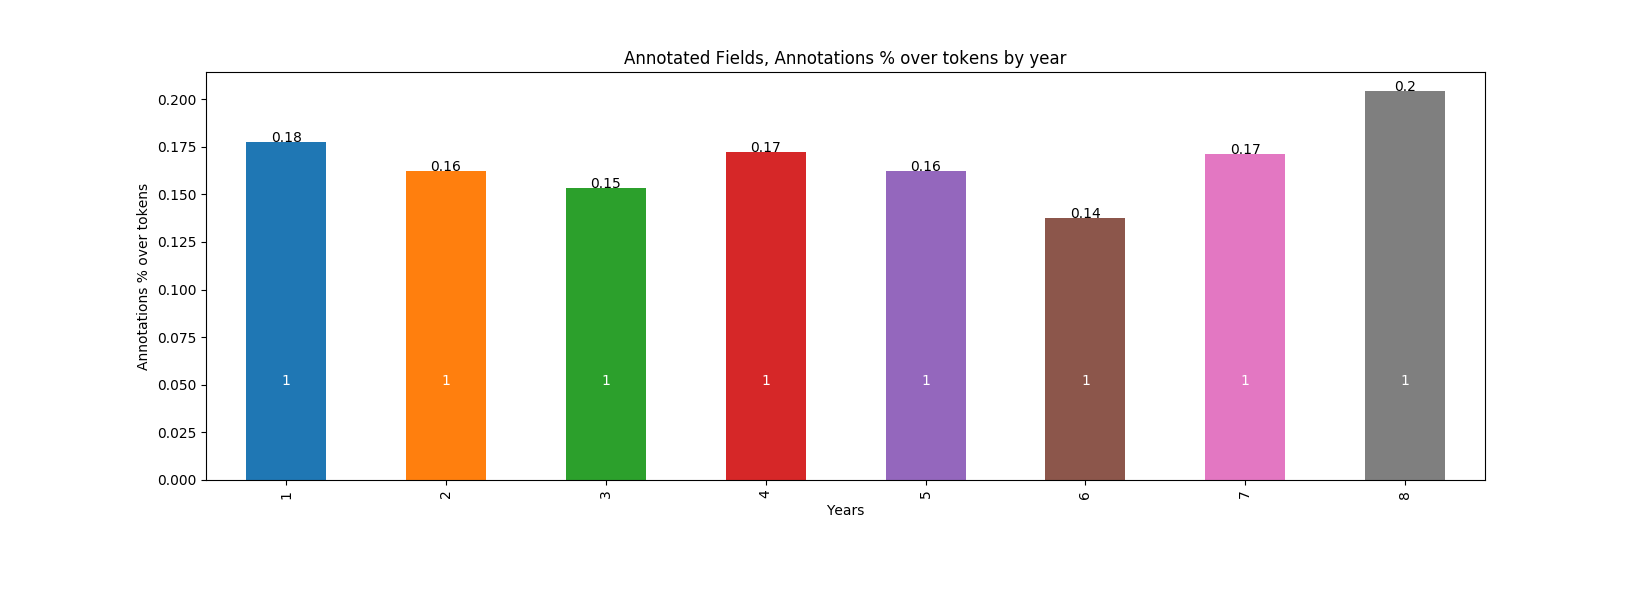
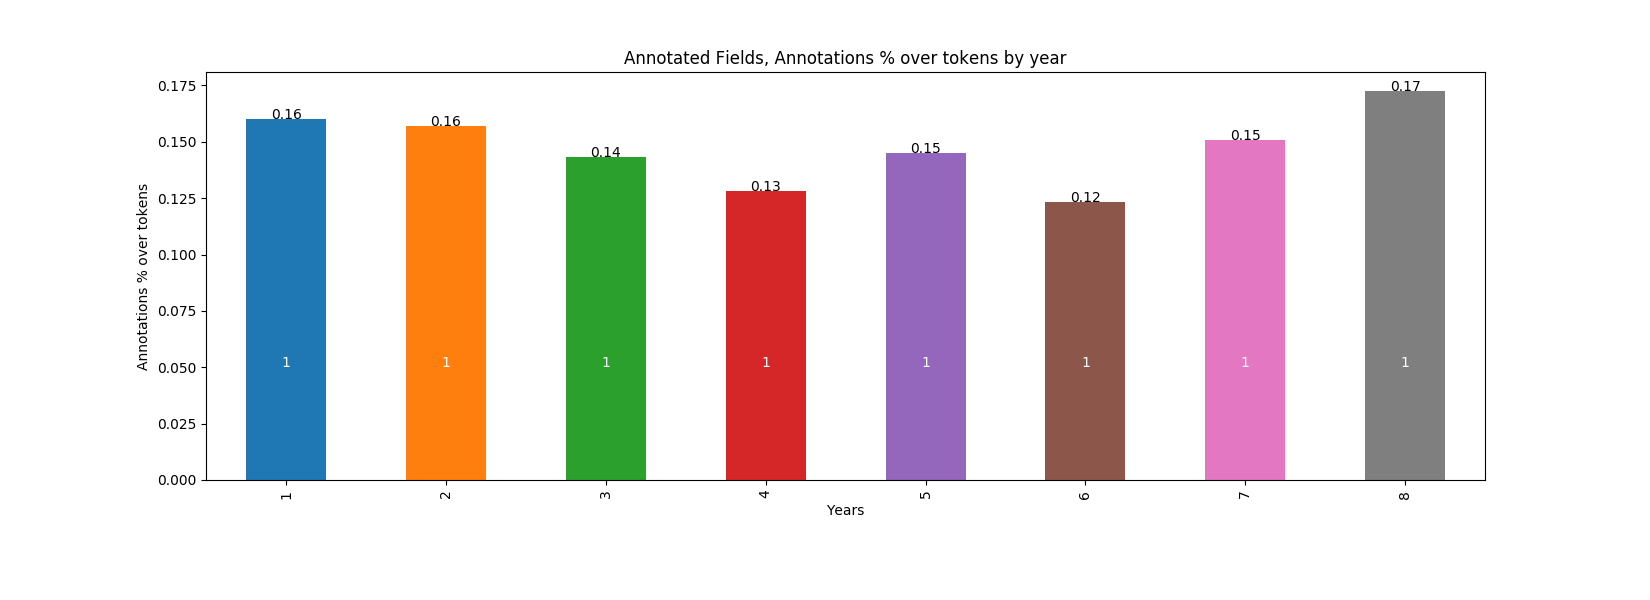
development comparison efpia TRELLO#36

diff --git a/plot_multiefpia_comparison.py b/plot_multiefpia_comparison.py
@@ -2,7 +2,7 @@
 Created on Jan 16, 2019
 
 To run the file 
-python plot.py -f1 servier/total_annotation_measurement.dat -f2 servier/documents_annotation_measurement.dat -outputDir servier
+python plot_multiefpia_comparison.py -f1 bayer/total_annotation_measurement.dat,sanofi/total_annotation_measurement.dat,servier/total_annotation_measurement.dat -f2 bayer/documents_annotation_measurement.dat,sanofi/documents_annotation_measurement.dat,servier/documents_annotation_measurement.dat -outputDir multoefpia
 
 @author: jcorvi
 '''
@@ -21,8 +21,8 @@ parser.add_argument('-outputDir', help='Output Dir, could be the EFPIA partner n
 args=parser.parse_args()
 parameters={}
 if __name__ == '__main__':
-    import plot_multiefpia_comparation
-    parameters = plot_multiefpia_comparation.ReadParameters(args)
+    import plot_multiefpia_comparison
+    parameters = plot_multiefpia_comparison.ReadParameters(args)
     
     total_annotation_measurement = parameters['total_annotation_measurement'].split(",")
     documents_annotation_measurement = parameters['documents_annotation_measurement'].split(",")
@@ -30,9 +30,10 @@ if __name__ == '__main__':
         logging.error("The numbers of total field and document files have to be the same.")
        
     #for path1,path2 in zip(total_annotation_measurement,documents_annotation_measurement):
-    plot_multiefpia_comparation.plot_annotations_set_measurement(total_annotation_measurement,['Bayer','Sanofi','Servier'],['b','r','g'])
-    #plot_multiefpia_comparation.plot_annotations_study_domain(documents_annotation_measurement)
-       
+    #plot_multiefpia_comparation.plot_annotations_set_measurement(total_annotation_measurement, parameters['outputDir']+ 'all_set_annotations_percentage.png',['Bayer','Sanofi','Servier'],['b','r','g'],True)
+    plot_multiefpia_comparison.plot_annotations_set_measurement(total_annotation_measurement,parameters['outputDir']+ 'all_set_annotations_quantity.png',['Bayer','Sanofi','Servier'],['b','r','g'],False)
+    #plot_multiefpia_comparation.plot_annotations_study_domain(total_annotation_measurement,parameters['outputDir']+ 'study_domain_percentage.png',['Bayer','Sanofi','Servier'],['b','r','g'],True)
+    plot_multiefpia_comparison.plot_annotations_study_domain(total_annotation_measurement,parameters['outputDir']+ 'study_domain_quantity.png',['Bayer','Sanofi','Servier'],['b','r','g'],False)   
 def ReadParameters(args):
     """Read the parameters of the module, see --help"""
     missing_parameter=False
@@ -62,22 +63,24 @@ def ReadParameters(args):
 
 
     
-def plot_annotations_set_measurement(annotation_measurement_paths,efpias,colors):
-    
+def plot_annotations_set_measurement(annotation_measurement_paths, output,efpias,colors, percentage=True):
     list_to_plot = []
     for path1,efpia,c in zip(annotation_measurement_paths,efpias,colors):
         values=[]
         df = pandas.read_csv(path1, sep='\t', header=None)
         df = df[df.columns[[0,1,2]]]
         df_to_plot = df[(df[0]!='SENTENCES_TEXT') & (df[1]!='ORIGINAL MARKUPS') & (df[0]!='TREATMENT_RELATED_EFFECT_DETECTED_SENTENCE') & (df[0]!='NO_TREATMENT_RELATED_EFFECT_DETECTED_SENTENCE')]
-        df_grouped = df_to_plot[(df_to_plot[1]=='SEX') | (df_to_plot[1]=='MANIFESTATION_OF_FINDING') | (df_to_plot[1]=='STUDY_TESTCD') | (df_to_plot[1]=='STUDY_DOMAIN') | (df_to_plot[1]=='RISK_LEVEL')].groupby([1])[2].agg('sum').reset_index()
+        df_grouped = df_to_plot[(df_to_plot[1]=='SEX') | (df_to_plot[1]=='MANIFESTATION_FINDING') | (df_to_plot[1]=='STUDY_TESTCD') | (df_to_plot[1]=='STUDY_DOMAIN') | (df_to_plot[1]=='RISK_LEVEL')].groupby([1])[2].agg('sum').reset_index()
         df_default = df[(df[1]=='DEFAULT') & (df[0]!='SENTENCES_TEXT') & (df[0]!='TREATMENT_RELATED_EFFECT_DETECTED_SENTENCE') & (df[0]!='NO_TREATMENT_RELATED_EFFECT_DETECTED_SENTENCE')]
         df_default = df_default.drop([1], axis=1)
         df_default.columns = [1, 2]
         frames = [df_grouped, df_default]
         df_to_plot = pandas.concat(frames)
         df_to_plot.columns=['key','value']
-        
+        if(percentage==True):
+            tokens_df = df[(df[0]=='TOKENS_QUANTITY')]
+            tokens = float(tokens_df.get_value(tokens_df.index[0],2))
+            df_to_plot['value'] = df_to_plot['value']/tokens
         #Get Specific fields for plot
         xdata=['Anatomy','Study Domain', 'Sex', 'Study Test', 'Specimen', 'Route of Administration', 'Species', 'Dose', 'Group', 'Manifestation of Finding', 'Mode of Action',  \
                'Treatment Related Term', 'Strain','No Treatment Related Term',  'Statical Significance', 'Risk Level' ]
@@ -90,7 +93,7 @@ def plot_annotations_set_measurement(annotation_measurement_paths,efpias,colors)
         values.append(getFieldValue(df_to_plot, 'SPECIES'))
         values.append(getFieldValue(df_to_plot, 'DOSE'))
         values.append(getFieldValue(df_to_plot, 'GROUP'))
-        values.append(getFieldValue(df_to_plot, 'MANIFESTATION_OF_FINDING'))
+        values.append(getFieldValue(df_to_plot, 'MANIFESTATION_FINDING'))
         values.append(getFieldValue(df_to_plot, 'MODE_OF_ACTION'))
         values.append(getFieldValue(df_to_plot, 'TREATMENT_RELATED_EFFECT_DETECTED'))
         values.append(getFieldValue(df_to_plot, 'STRAIN'))
@@ -98,11 +101,7 @@ def plot_annotations_set_measurement(annotation_measurement_paths,efpias,colors)
         values.append(getFieldValue(df_to_plot, 'STATICAL_SIGNIFICANCE'))
         values.append(getFieldValue(df_to_plot, 'RISK_LEVEL'))
         list_to_plot.append([values, efpia, c])
-
-        
-        
-        '''df_to_plot['key'] = [  el.replace('_',' ').replace(' ','\n',2).capitalize() for el in df_to_plot['key']]
-        total = df_to_plot['value'].sum()'''
+    
     barWidth=0.2    
     in_ = 0    
     for row in list_to_plot:
@@ -118,30 +117,13 @@ def plot_annotations_set_measurement(annotation_measurement_paths,efpias,colors)
     
     
     plt.xticks([r + barWidth for r in range(len(values))], xdata, rotation=90 )
-    '''        
-    xdata=df_to_plot[1]
-    cliente1 = list(df_to_plot[2])
-    cliente2 = list(df_to_plot[2])
-    cliente3 = list(df_to_plot[2])
-    
-    
-    
-    r1 = np.arange(len(cliente1))
-    r2 = [x + barWidth for x in r1]
-    r3 = [x + barWidth for x in r2]
-    
-    plt.bar(r1, cliente1, color='b', width=barWidth, edgecolor='white', label='Bayer')
-    plt.bar(r2, cliente2, color='g', width=barWidth, edgecolor='white', label='Sanofi')
-    plt.bar(r3, cliente3, color='r', width=barWidth, edgecolor='white', label='Servier')
-    '''
-    
     plt.legend()
     plt.xlabel("Field")
     plt.ylabel("# Terms Mentions")
     plt.title('Annotated Fields')
     plt.gcf().subplots_adjust(bottom=0.40)
     plt.gcf().set_size_inches(16.5, 6.0)
-    plt.savefig(parameters['outputDir']+ 'all_set_annotations.png')
+    plt.savefig(output)
     plt.show()
     plt.gcf().clear()
 
@@ -154,25 +136,59 @@ def getFieldValue(df, fieldName):
     return v
     
 
-def plot_annotations_study_domain(annotation_measurement_path):
-    df = pandas.read_csv(annotation_measurement_path, sep='\t', header=None)
-    df = df[df.columns[[0,1,2]]]
-    df_to_plot = df[(df[1]=='STUDY_DOMAIN')]
-    df_to_plot[3] = [el.replace('_DOMAIN','').replace('_','\n').capitalize() for el in df_to_plot[0]]
-    df_to_plot = df_to_plot.sort_values(by=[2],ascending=[0])
-    total = df_to_plot[2].sum()
-    ax = df_to_plot.plot.bar(x=3, y=2 , legend=False)
-    ax.annotate(str(total) + ' study domain terms mentions in total', xy=(0.70,0.90),xycoords='axes fraction', fontsize=10)
-    for i in ax.patches:
-        ax.text(i.get_x() + i.get_width()/2., i.get_height()-1, str(i.get_height()), fontsize=10, color='black',ha='center')
-    plt.title('Annotated Study Domains')
+def plot_annotations_study_domain(annotation_measurement_paths, output, efpias,colors, percentage=True):
+    list_to_plot = []
+    xdata=['Clinical','Microscopic', 'Death Diagnosis', 'Food and Water Consumption', 'Fetal Pathology', 'Body Weight', 'Body Weight Gain', 'Organ Measurement', 'Cardiovascular', 'Behavioral','Macroscopic', 'ECG',  \
+               'Respiratory', 'Pharmacokinetics','Laboratory']
+    for path1,efpia,c in zip(annotation_measurement_paths,efpias,colors):
+        values=[]
+        df = pandas.read_csv(path1, sep='\t', header=None)
+        df = df[df.columns[[0,1,2]]]
+        df_to_plot = df[(df[1]=='STUDY_DOMAIN')]
+        df_to_plot.columns=['key','source','value']
+        tokens = df_to_plot['value'].sum()
+        if(percentage==True):
+            df_to_plot['value'] = df_to_plot['value']/tokens
+        values.append(getFieldValue(df_to_plot, 'CLINICAL_DOMAIN'))
+        values.append(getFieldValue(df_to_plot, 'MICROSCOPIC_FINDINGS_DOMAIN'))
+        values.append(getFieldValue(df_to_plot, 'DEATH_DIAGNOSIS_DOMAIN'))
+        values.append(getFieldValue(df_to_plot, 'FOOD_WATER_CONSUMPTION_DOMAIN'))
+        values.append(getFieldValue(df_to_plot, 'FETAL_PATOLOGY_FINDINGS_DOMAIN'))
+        values.append(getFieldValue(df_to_plot, 'BODY_WEIGHT_DOMAIN'))
+        values.append(getFieldValue(df_to_plot, 'BODY_WEIGHT_GAIN_DOMAIN'))
+        values.append(getFieldValue(df_to_plot, 'ORGAN_MEASUREMENT_DOMAIN'))
+        values.append(getFieldValue(df_to_plot, 'CARDIOVASCULAR_DOMAIN'))
+        values.append(getFieldValue(df_to_plot, 'BEHAVIORAL_DOMAIN'))
+        values.append(getFieldValue(df_to_plot, 'MACROSCOPIC_FINDINGS_DOMAIN'))
+        values.append(getFieldValue(df_to_plot, 'ECG_DOMAIN'))
+        values.append(getFieldValue(df_to_plot, 'RESPIRATORY_FINDINGS_DOMAIN'))
+        values.append(getFieldValue(df_to_plot, 'PHARMACOKINETICS_PARAMETERS_DOMAIN'))
+        values.append(getFieldValue(df_to_plot, 'LABORATORY_FINDINGS_DOMAIN'))
+        list_to_plot.append([values, efpia, c])    
+    
+    barWidth=0.2    
+    in_ = 0    
+    for row in list_to_plot:
+        values = row[0]
+        label  = row[1]
+        color = row[2]
+        if(in_==0):
+            r1 = list(np.arange(len(values)))
+            in_=1
+        else:    
+            r1 = [x + barWidth for x in r1]
+        plt.bar(r1, values, color=color, width=barWidth, edgecolor='white', label=label)
+    
+    plt.xticks([r + barWidth for r in range(len(values))], xdata, rotation=90 )
+    plt.legend()
+    plt.title('Term mentions by Study Domain')
     plt.xlabel("Study Domain")
     plt.xticks(rotation=90)
     plt.ylabel("# Terms Mentions")
     plt.gcf().subplots_adjust(bottom=0.40)
     plt.gcf().set_size_inches(16.5, 6.0)
-    plt.savefig(parameters['outputDir']+'study_domain.png')
-    #plt.show()
+    plt.savefig(output)
+    plt.show()
     plt.gcf().clear()
 
     

diff --git a/plot.py b/plot.py
@@ -61,7 +61,7 @@ def plot_annotations_by_source():
     annotation_measurement_path = parameters['total_annotation_measurement']
     df = pandas.read_csv(annotation_measurement_path, sep='\t', header=None)
     df_to_plot = df[(df[0]!='SENTENCES_TEXT') & (df[1]!='ORIGINAL MARKUPS') & (df[0]!='TREATMENT_RELATED_EFFECT_DETECTED_SENTENCE') & (df[0]!='NO_TREATMENT_RELATED_EFFECT_DETECTED_SENTENCE')]
-    df_grouped = df_to_plot[(df_to_plot[1]=='SEX') | (df_to_plot[1]=='MANIFESTATION_OF_FINDING') | (df_to_plot[1]=='STUDY_TESTCD') | (df_to_plot[1]=='STUDY_DOMAIN') | (df_to_plot[1]=='RISK_LEVEL')].groupby([1]).agg('sum').reset_index()
+    df_grouped = df_to_plot[(df_to_plot[1]=='SEX') | (df_to_plot[1]=='MANIFESTATION_FINDING') | (df_to_plot[1]=='STUDY_TESTCD') | (df_to_plot[1]=='STUDY_DOMAIN') | (df_to_plot[1]=='RISK_LEVEL')].groupby([1]).agg('sum').reset_index()
     df_default = df[(df[1]=='DEFAULT') & (df[0]!='SENTENCES_TEXT') & (df[0]!='TREATMENT_RELATED_EFFECT_DETECTED_SENTENCE') & (df[0]!='NO_TREATMENT_RELATED_EFFECT_DETECTED_SENTENCE')]
     df_default = df_default.drop([1], axis=1)
     df_default.columns = [1, 2, 3 ,4, 5 ]
@@ -102,7 +102,7 @@ def plot_annotations_set_measurement():
     df = pandas.read_csv(annotation_measurement_path, sep='\t', header=None, )
     df = df[df.columns[[0,1,2]]]
     df_to_plot = df[(df[0]!='SENTENCES_TEXT') & (df[1]!='ORIGINAL MARKUPS') & (df[0]!='TREATMENT_RELATED_EFFECT_DETECTED_SENTENCE') & (df[0]!='NO_TREATMENT_RELATED_EFFECT_DETECTED_SENTENCE')]
-    df_grouped = df_to_plot[(df_to_plot[1]=='SEX') | (df_to_plot[1]=='MANIFESTATION_OF_FINDING') | (df_to_plot[1]=='STUDY_TESTCD') | (df_to_plot[1]=='STUDY_DOMAIN') | (df_to_plot[1]=='RISK_LEVEL')].groupby([1])[2].agg('sum').reset_index()
+    df_grouped = df_to_plot[(df_to_plot[1]=='SEX') | (df_to_plot[1]=='MANIFESTATION_FINDING') | (df_to_plot[1]=='STUDY_TESTCD') | (df_to_plot[1]=='STUDY_DOMAIN') | (df_to_plot[1]=='RISK_LEVEL')].groupby([1])[2].agg('sum').reset_index()
     df_default = df[(df[1]=='DEFAULT') & (df[0]!='SENTENCES_TEXT') & (df[0]!='TREATMENT_RELATED_EFFECT_DETECTED_SENTENCE') & (df[0]!='NO_TREATMENT_RELATED_EFFECT_DETECTED_SENTENCE')]
     df_default = df_default.drop([1], axis=1)
     df_default.columns = [1, 2]
@@ -158,7 +158,7 @@ def plot_annotations_by_year():
     print tokens_year
     tokens_year.columns = ['year','tokens','reports'] 
     df_to_plot = df[(df[2]!='ORIGINAL MARKUPS') & (df[2]!='GENERAL_DOCUMENT') ]
-    df_to_plot = df_to_plot[(df_to_plot[2]=='SEX') | (df_to_plot[2]=='MANIFESTATION_OF_FINDING') | (df_to_plot[2]=='STUDY_TESTCD') | (df_to_plot[2]=='STUDY_DOMAIN') | (df_to_plot[2]=='RISK_LEVEL')]
+    df_to_plot = df_to_plot[(df_to_plot[2]=='SEX') | (df_to_plot[2]=='MANIFESTATION_FINDING') | (df_to_plot[2]=='STUDY_TESTCD') | (df_to_plot[2]=='STUDY_DOMAIN') | (df_to_plot[2]=='RISK_LEVEL')]
     df_to_plot[4] = [el[el.rfind('_')+1:] for el in df_to_plot[0]]
     df_sum = df_to_plot.groupby([4])[3].agg('sum').reset_index()
     df_sum.columns = ['year','annotations'] 
